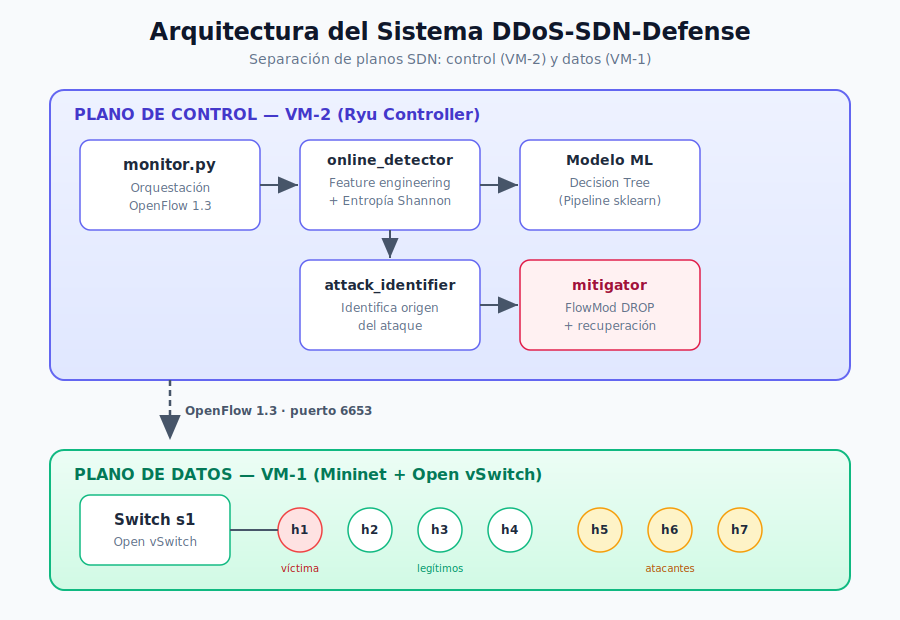
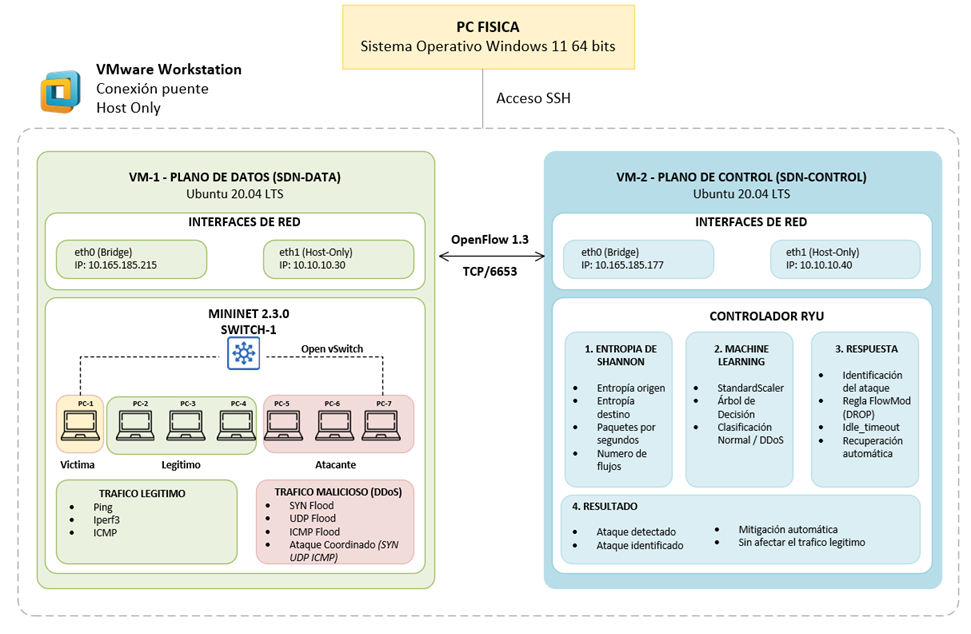
README: mejora del enfoque metodológico y actualización de la arquitectura

diff --git a/README.md b/README.md
@@ -9,7 +9,7 @@
 ![License](https://img.shields.io/badge/License-MIT-yellow)
 ![Status](https://img.shields.io/badge/Status-Stable-brightgreen)
 
-## Sistema de detección, identificación del origen y mitigación automática de ataques DDoS en redes SDN mediante Entropía de Shannon y Machine Learning
+## Detección y mitigación de ataques DDoS en redes SDN mediante Entropía de Shannon y Machine Learning
 
 > Proyecto desarrollado en la **Maestría en Ciberseguridad** de la **Universidad Nacional Mayor de San Marcos (UNMSM)**.
 
@@ -47,16 +47,19 @@ La solución incorpora métricas basadas en la **Entropía de Shannon**, caracte
 
 ## 1. Descripción del proyecto
 
-Los ataques de denegación de servicio distribuido (DDoS) siguen siendo una de las amenazas más frecuentes contra la disponibilidad de los servicios en red. Las redes definidas por software (SDN) ofrecen una oportunidad única para defenderse de estos ataques: al centralizar la lógica de control en un controlador programable, es posible observar el estado global de la red e instalar contramedidas de forma dinámica.
+Los ataques de denegación de servicio distribuido (DDoS) representan una de las principales amenazas para la disponibilidad de los servicios en redes modernas. En las redes definidas por software (*Software Defined Networking*, SDN), la separación entre el plano de control y el plano de datos permite implementar mecanismos inteligentes de monitoreo, análisis y respuesta desde un controlador centralizado.
 
-Este proyecto construye, de extremo a extremo, un sistema defensivo que:
+Este proyecto presenta un sistema para la **detección y mitigación automática de ataques DDoS en redes SDN**, cuya estrategia de caracterización del tráfico se fundamenta en la **Entropía de Shannon** como principal indicador del comportamiento de la red. Sobre esta caracterización se incorpora un modelo de **Machine Learning**, encargado de clasificar el tráfico y apoyar la toma de decisiones para la respuesta automática.
 
-- **Detecta** ataques DDoS en tiempo real analizando estadísticas de flujo recolectadas vía OpenFlow.
-- **Identifica** automáticamente el origen del ataque (los hosts atacantes), incluso en escenarios coordinados con múltiples orígenes simultáneos.
-- **Mitiga** el ataque instalando reglas FlowMod DROP dirigidas exclusivamente al tráfico malicioso, preservando el tráfico legítimo.
-- **Se recupera** automáticamente al cesar el ataque, mediante un ciclo de vida de reglas basado en `idle_timeout` y el evento `FlowRemoved`.
+El sistema implementado es capaz de:
 
-El sistema fue validado mediante una campaña experimental de 15 experimentos (5 escenarios × 3 repeticiones) con resultados reproducibles y estadísticamente sólidos.
+- **Caracterizar** el comportamiento del tráfico mediante métricas basadas en la Entropía de Shannon y estadísticas obtenidas desde OpenFlow.
+- **Detectar** ataques DDoS en tiempo real mediante un modelo de Machine Learning entrenado con tráfico normal y malicioso.
+- **Identificar** automáticamente el origen del ataque, incluso en escenarios con múltiples atacantes simultáneos.
+- **Mitigar** el tráfico malicioso mediante la instalación dinámica de reglas OpenFlow **DROP**, preservando la disponibilidad del tráfico legítimo.
+- **Recuperar** automáticamente el estado normal de la red mediante la expiración controlada de las reglas de mitigación y el procesamiento del evento `FlowRemoved`.
+
+El sistema fue implementado y validado experimentalmente sobre un laboratorio SDN reproducible basado en Mininet, Open vSwitch y el controlador Ryu, demostrando una respuesta eficaz frente a distintos escenarios de ataque DDoS.
 
 ---
 
@@ -124,7 +127,9 @@ Topología en estrella con un switch OpenFlow (s1) y 7 hosts:
 | Host | Rol | IP |
 |---|---|---|
 | h1 | Víctima | 10.0.0.1 |
-| h2–h4 | Tráfico legítimo | 10.0.0.2–4 |
+| h2 | Tráfico legítimo | 10.0.0.2 |
+| h3 | ATráfico legítimo | 10.0.0.3 |
+| h4 | Tráfico legítimo | 10.0.0.4 |
 | h5 | Atacante (SYN Flood) | 10.0.0.11 |
 | h6 | Atacante (UDP Flood) | 10.0.0.12 |
 | h7 | Atacante (ICMP Flood) | 10.0.0.13 |
@@ -358,7 +363,7 @@ Detalle completo en [`results/`](results/) y en [`docs/06-Reproducir-Hito10.md`]
 | 8 | Detección en tiempo real | ✅ |
 | 9 | Identificación del origen y mitigación | ✅ |
 | 10 | Validación experimental integral | ✅ |
-| 11 | Consolidación, documentación y artículo | 🔄 |
+| 11 | Consolidación, documentación y artículo | ✅ |
 
 **Trabajo futuro:**
 - Extensión a escenarios con *IP spoofing*, donde la entropía de origen recuperaría valor discriminante.
@@ -375,17 +380,21 @@ Actualmente este proyecto forma parte de una investigación de maestría. Las co
 
 ## 18. Cómo citar
 
-Si este trabajo resulta útil para tu investigación, puedes citarlo como:
+Si este trabajo es útil para tu investigación, puedes citarlo como:
 
 ```bibtex
-@mastersthesis{capcha_ddos_sdn,
-  author = {Jhon Capcha},
-  title  = {Sistema de detección, identificación del origen y mitigación
-            automática de ataques DDoS en redes SDN mediante Entropía de
-            Shannon y Machine Learning},
-  school = {Universidad Nacional Mayor de San Marcos},
-  year   = {2026},
-  type   = {Tesis de Maestría en Ciberseguridad}
+@misc{ddos_sdn_shannon_2026,
+  title = {Sistema de detección, identificación del origen y mitigación automática de ataques DDoS en redes SDN mediante Entropía de Shannon y Machine Learning},
+  author = {
+    Jhon Kenedy Capcha Salas and
+    Ludwin Ciro Coñes Falcon and
+    Rosembert Gamboa Ventura and
+    Luis Angel Mayta Chipana
+  },
+  year = {2026},
+  institution = {Universidad Nacional Mayor de San Marcos},
+  note = {Proyecto académico desarrollado para la Maestría en Ciberseguridad},
+  url = {https://github.com/jhon-capcha/ddos-sdn}
 }
 ```
 
@@ -398,7 +407,7 @@ Si este trabajo resulta útil para tu investigación, puedes citarlo como:
 - **Universidad Nacional Mayor de San Marcos (UNMSM)**
 - **Maestría en Ciberseguridad**
 - Curso: *Programación Aplicada a la Ciberseguridad* — Prof. Dr. Krishnendu Rarhi
-- Al laboratorio SDN sobre el que se desarrolló y validó esta investigación.
+
 
 ---
 
@@ -408,12 +417,13 @@ Este proyecto se distribuye bajo la licencia **MIT**. Ver el archivo [`LICENSE`]
 
 ---
 
-## 21. Autor
+## 21. Equipo de proyecto
+* Jhon Kenedy Capcha Salas ([email redacted])
+* Ludwin Ciro Coñes Falcon ([email redacted])
+* Rosembert Gamboa Ventura ([email redacted])
+* Luis Angel Mayta Chipana ([email redacted])
 
-**Jhon Capcha**
-Maestría en Ciberseguridad — Universidad Nacional Mayor de San Marcos (UNMSM)
-GitHub: [@jhon-capcha](https://github.com/jhon-capcha)
 
 ---
 
-*Este repositorio constituye el producto integral del proyecto de tesis, incluyendo el código del sistema defensivo, el pipeline de Machine Learning, la instrumentación experimental y la documentación de reproducibilidad.*
+*Proyecto desarrollado como trabajo final del curso Programación Aplicada a la Ciberseguridad, perteneciente a la Maestría en Ciberseguridad de la Universidad Nacional Mayor de San Marcos.*